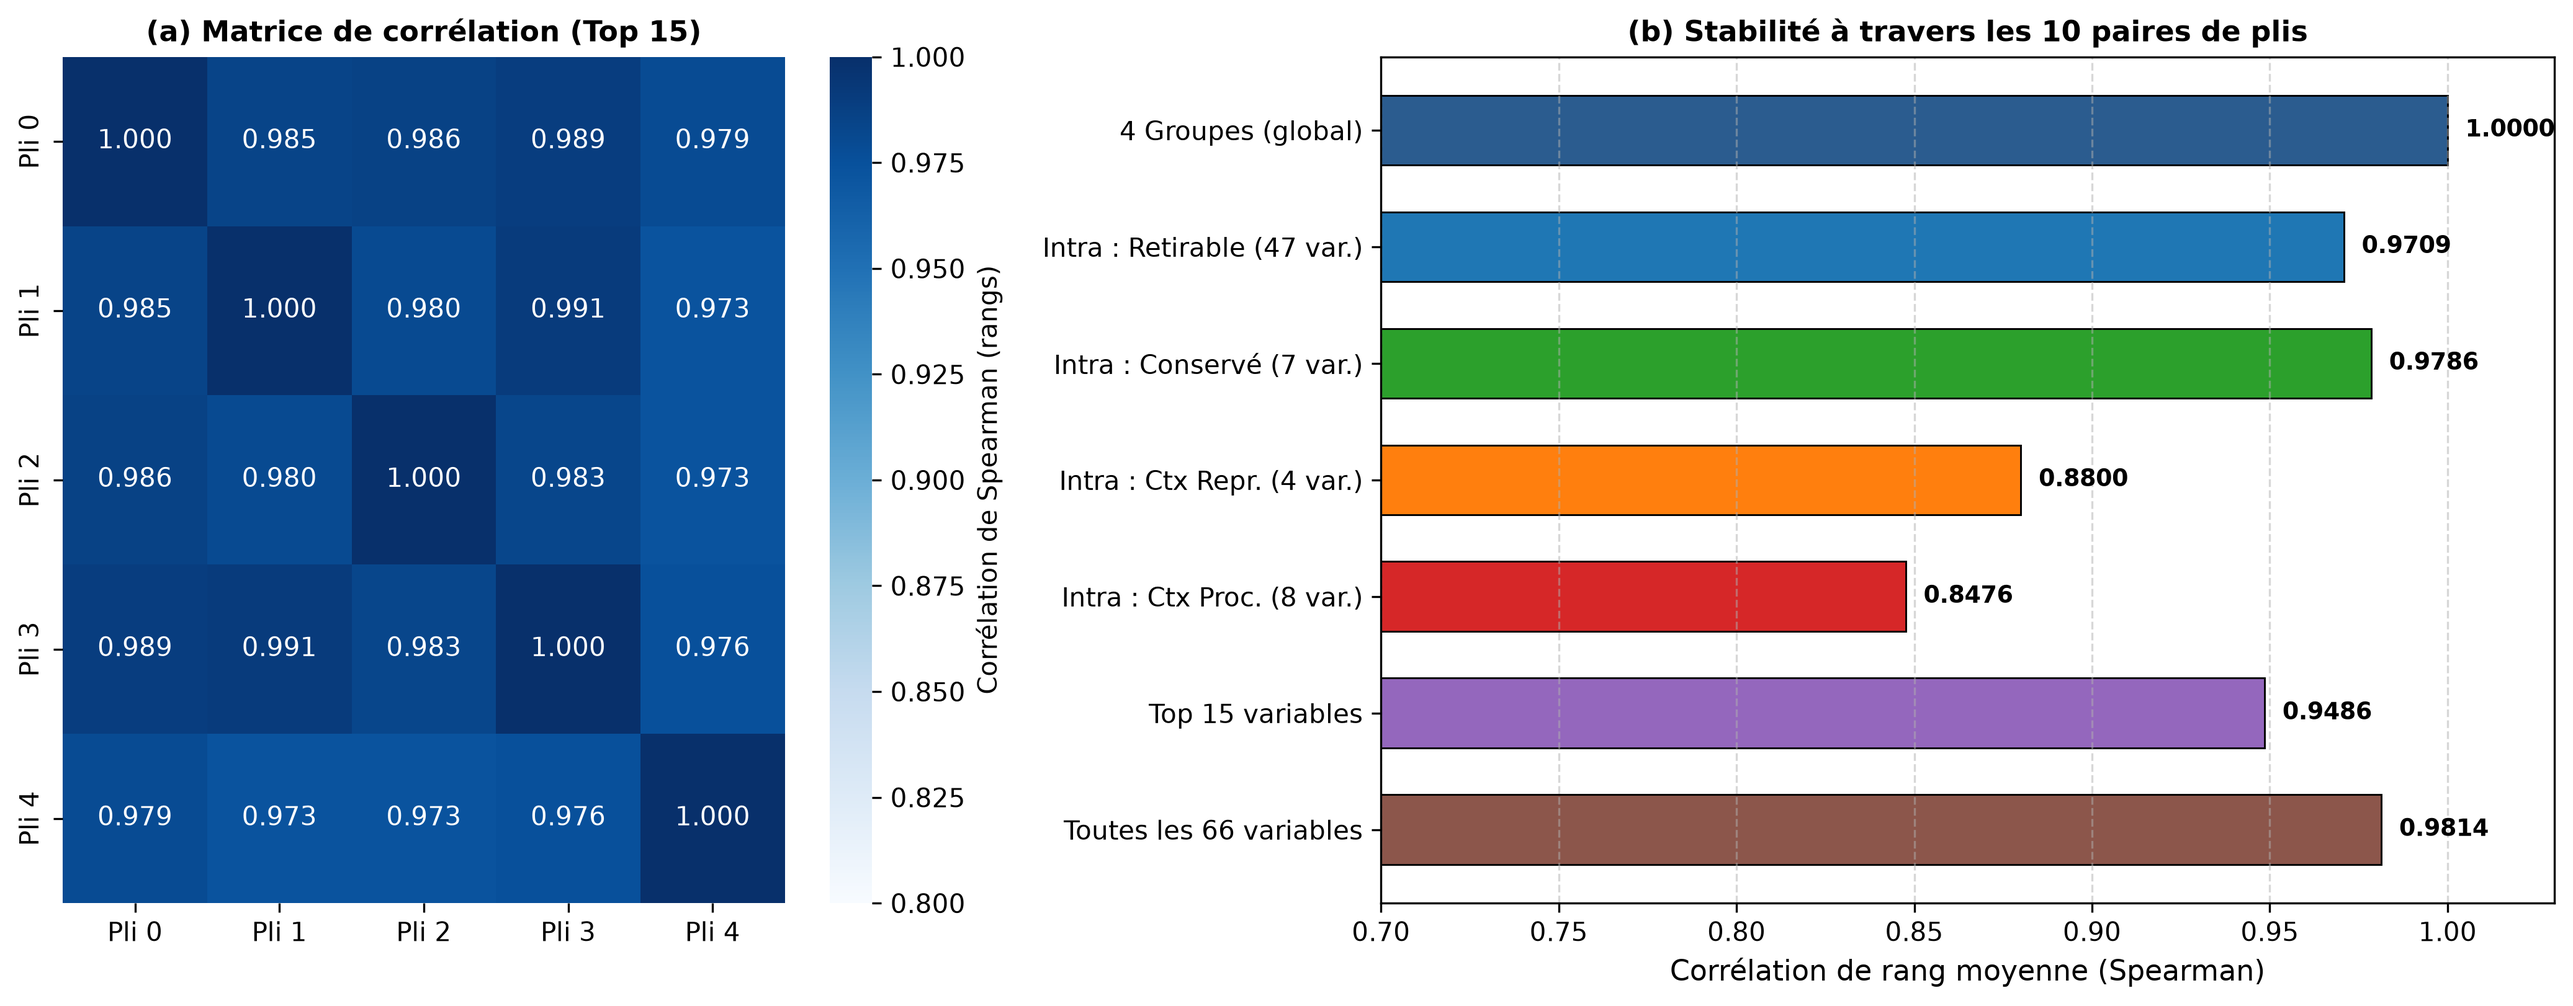
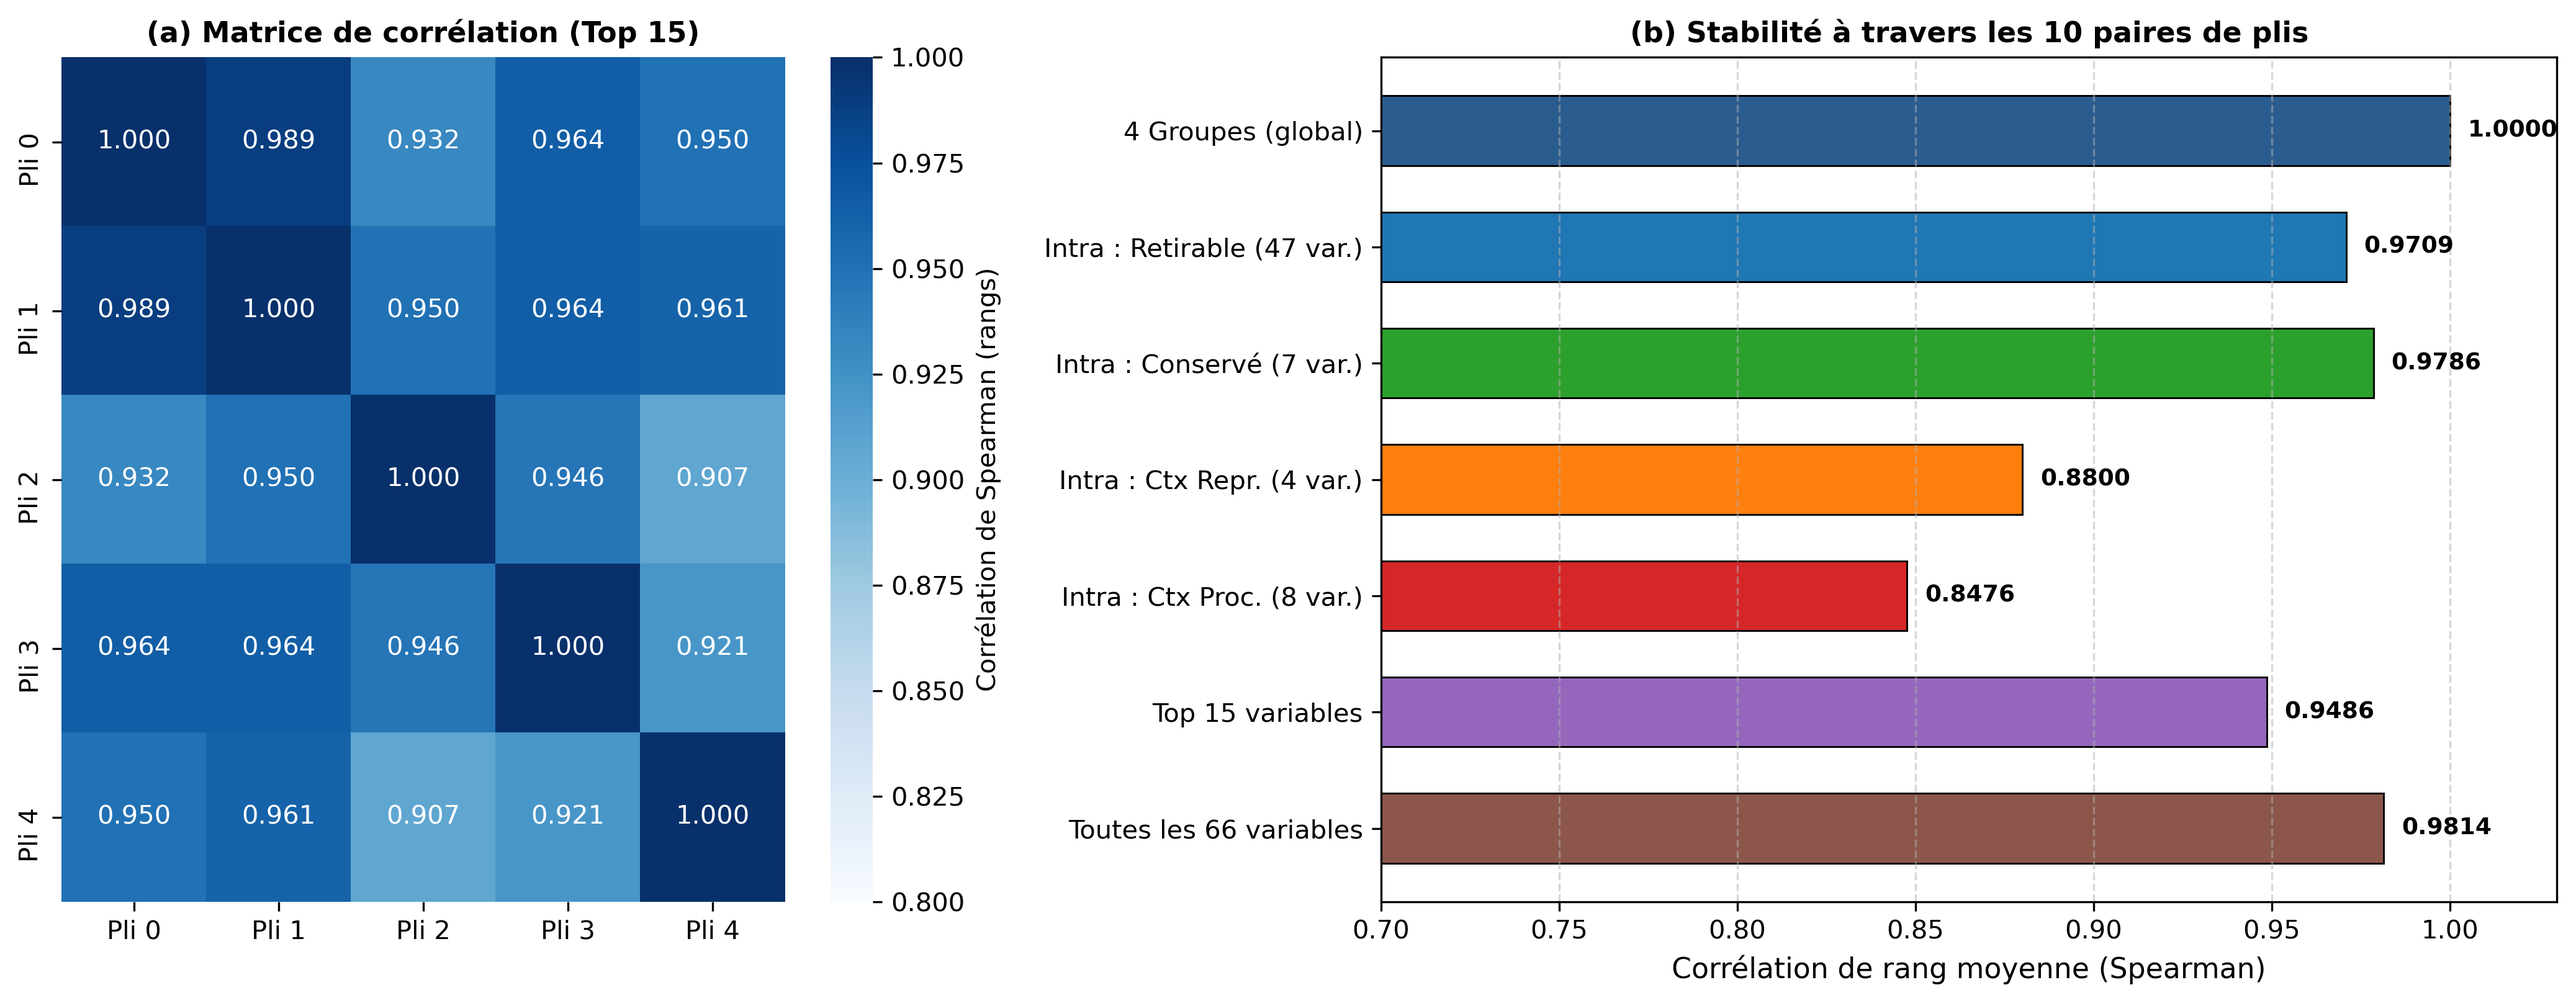
docs(decisions): ratifier la Décision 15 avant ouverture de 2020 et corriger F9

diff --git a/scripts/10_train_phase2c_lightgbm.py b/scripts/10_train_phase2c_lightgbm.py
@@ -53,6 +53,7 @@ import shap
 # Paths (Relative to repository root)
 BASE_DIR = os.path.abspath(os.path.join(os.path.dirname(__file__), ".."))
 TABLE_DIR = os.path.join(BASE_DIR, "data", "processed", "modeling_table")
+INTERIM_DIR = os.path.join(BASE_DIR, "data", "interim")
 STATIC_FILE = os.path.join(BASE_DIR, "data", "interim", "static", "static_predictors.nc")
 CONFIG_PREDICTORS = os.path.join(BASE_DIR, "configs", "predictors.yaml")
 REPORTS_DIR = os.path.join(BASE_DIR, "reports")
@@ -353,8 +354,8 @@ def run_spatial_cross_validation(train_df, feature_cols, cols_rem, cols_ret, col
             r_intra_rep, _ = spearmanr(fold_shaps_arr[fa][group_dict['context_representation']], fold_shaps_arr[fb][group_dict['context_representation']])
             r_intra_proc, _ = spearmanr(fold_shaps_arr[fa][group_dict['context_process']], fold_shaps_arr[fb][group_dict['context_process']])
             
-            matrix_spearman[fa, fb] = r_all
-            matrix_spearman[fb, fa] = r_all
+            matrix_spearman[fa, fb] = r_top15
+            matrix_spearman[fb, fa] = r_top15
             stability_records.append({
                 'fold_a': fa,
                 'fold_b': fb,
@@ -401,6 +402,9 @@ def train_full_model(train_df, feature_cols, n_jobs=8):
     )
     model.fit(X_train, y_train)
     print(f"Full LightGBM model trained on {len(X_train):,} samples in {time.time()-t0:.2f}s")
+    model_path = os.path.join(INTERIM_DIR, "lgb_model_2016_2018.txt")
+    model.booster_.save_model(model_path)
+    print(f"Saved trained LightGBM model to {model_path}")
     return model
 
 
@@ -492,6 +496,11 @@ def learn_b1_climatology():
     )
     global_fallback = float(full_train['target_d'].mean())
     print(f"B1 Climatology learned on all {len(full_train):,} rows across 2016-2018 in {time.time()-t0:.1f}s")
+    b1_clim_path = os.path.join(INTERIM_DIR, "b1_climatology_2016_2018.csv")
+    b1_pix_path = os.path.join(INTERIM_DIR, "b1_pixel_fallback_2016_2018.csv")
+    b1_clim_table.to_csv(b1_clim_path, index=False)
+    b1_pixel_table.to_csv(b1_pix_path, index=False)
+    print(f"Saved B1 climatology tables to {b1_clim_path} and {b1_pix_path}")
     return b1_clim_table, b1_pixel_table, global_fallback
 
 

diff --git a/docs/decisions.md b/docs/decisions.md
@@ -187,4 +187,8 @@ Ce document consigne les décisions méthodologiques formelles actées pour le p
      - Métriques obligatoires : Biais ($d_{\mathrm{res}} = \mathrm{SMAP}^* - \mathrm{SSM}_{\mathrm{OL}}$), RMSE, ubRMSE, corrélation avec l'open loop ($r_{\mathrm{SMAP}^* \mathrm{vs} \mathrm{OL}}$), corrélation d'anomalies temporelles avec SMAP brut ($r_{\mathrm{anom}}$), part d'observations assimilables et part de rejets au flétrissement.
      - Contraste dynamique GMIA (Clay Loam JJA, $>30\,\%$ vs $0\,\%$) avec intervalle de confiance à 95 % par bootstrap sur blocs spatiaux de 1° ($B=500$) et décompte des blocs distincts.
      - Stratification saisonnière intégrale (DJF, MAM, JJA, SON, Annuel).
-- **Statut** : Proposée (en attente d'accord utilisateur avant déverrouillage de 2020).
+  6. **Modalités d'exécution sur l'année de test 2020 scellée** :
+     - Le test 2020 utilise les modèles déjà entraînés sur 2016–2018, sans réentraînement ni changement d'hyperparamètres ; la référence est le CDF B2-train existant (2016-01-01 → 2019-01-01).
+     - Critère de succès fixé avant ouverture : V2 bat B2-train sur le biais absolu et sur r_anom_with_smap_raw, sur l'échantillon spécifique et sur l'échantillon commun, et la RMSE sur l'échantillon commun ne dépasse pas celle de B2-train de plus de 5 %.
+     - 2020 est ouvert une seule fois ; aucune modification de code, de groupes ou de seuils après ouverture ; un résultat défavorable est rapporté tel quel.
+- **Statut** : Actée.
